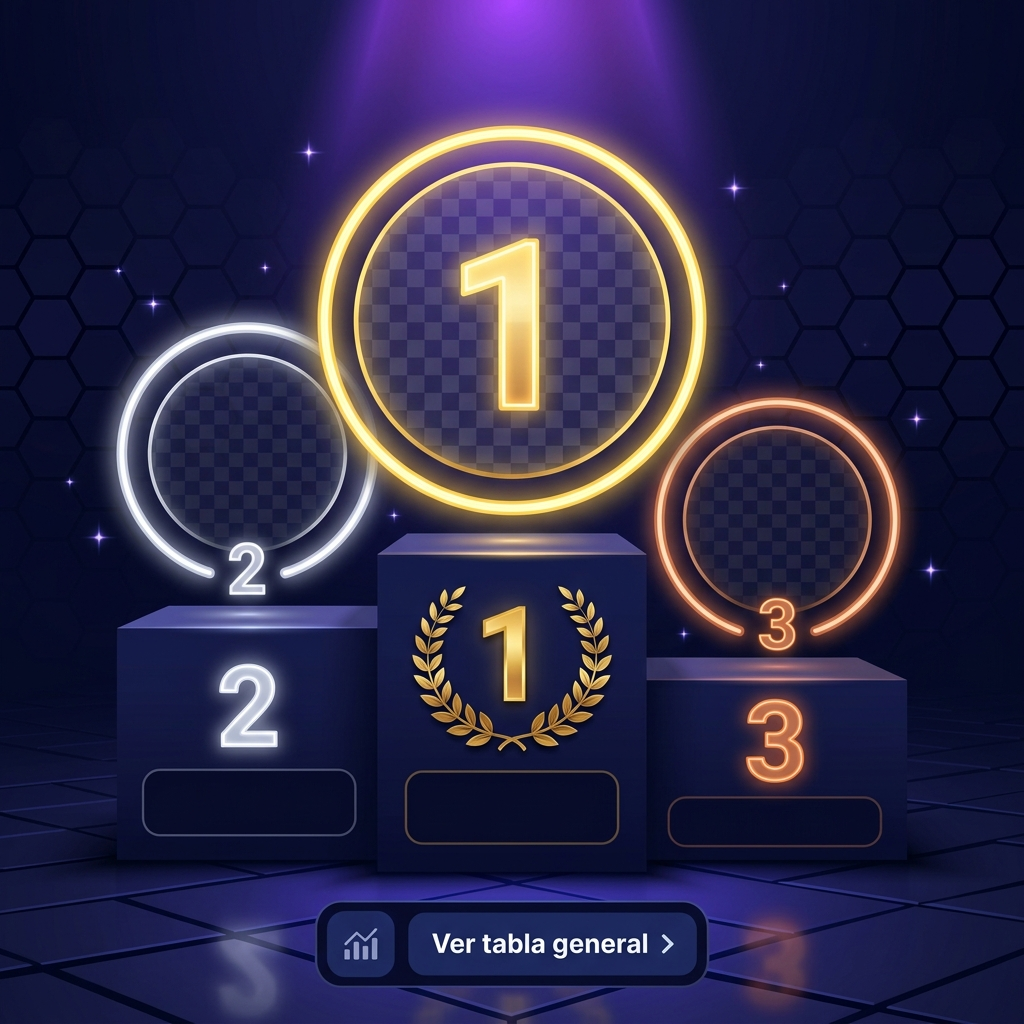
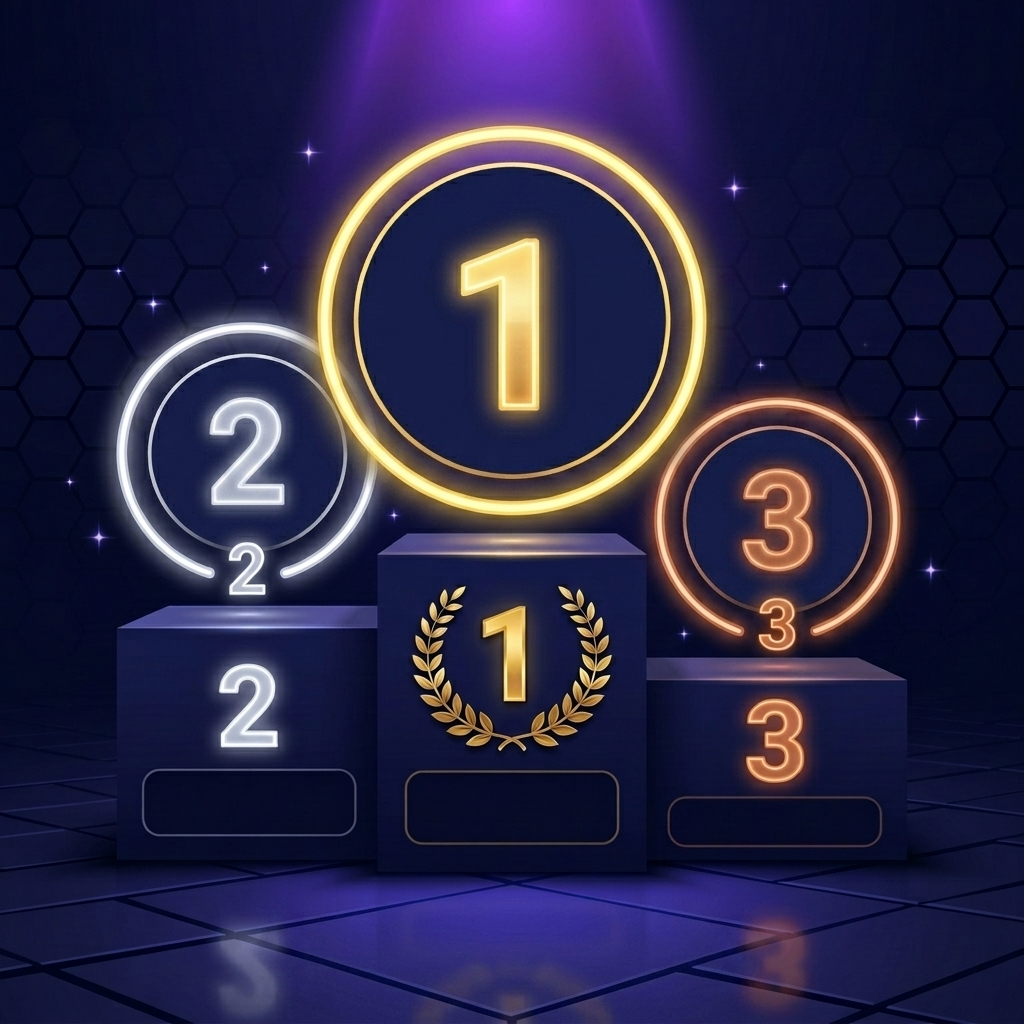
w

diff --git a/juegos/styles.css b/juegos/styles.css
@@ -2336,17 +2336,15 @@ body.is-native-app .sidebar { display: none !important; }
 .rp-bg-wrap {
     position: relative;
     width: 100%;
-    max-width: 580px;
-    margin: 0 auto 20px auto;
-    /* La imagen es 1024x1024 → aspect-ratio 1/1 */
+    max-width: 560px;
+    margin: 0 auto 24px auto;
     aspect-ratio: 1 / 1;
     background-image: url('assets/podio_bg.png');
     background-size: cover;
-    background-position: center top;
+    background-position: center center;
     background-repeat: no-repeat;
     border-radius: 20px;
     overflow: hidden;
-    /* Leve sombra para integrarse con la UI */
     box-shadow: 0 20px 50px rgba(0,0,0,0.6), 0 0 0 1px rgba(255,255,255,0.06);
 }
 
@@ -2362,8 +2360,8 @@ body.is-native-app .sidebar { display: none !important; }
 /* ── AVATAR CÍRCULO 1° LUGAR (dorado, centro-arriba) ── */
 .rp-ov-circle-1 {
     left: 50%;
-    top: 12.5%;
-    width: 33%;
+    top: 10%;
+    width: 35%;
     aspect-ratio: 1/1;
     transform: translateX(-50%);
     border-radius: 50%;
@@ -2372,9 +2370,9 @@ body.is-native-app .sidebar { display: none !important; }
 
 /* ── AVATAR CÍRCULO 2° LUGAR (plateado, izquierda) ── */
 .rp-ov-circle-2 {
-    left: 10%;
-    top: 34.5%;
-    width: 22%;
+    left: 7.5%;
+    top: 32%;
+    width: 23%;
     aspect-ratio: 1/1;
     border-radius: 50%;
     overflow: hidden;
@@ -2382,9 +2380,9 @@ body.is-native-app .sidebar { display: none !important; }
 
 /* ── AVATAR CÍRCULO 3° LUGAR (bronce, derecha) ── */
 .rp-ov-circle-3 {
-    right: 10%;
-    top: 37.5%;
-    width: 21%;
+    right: 7.5%;
+    top: 35%;
+    width: 22%;
     aspect-ratio: 1/1;
     border-radius: 50%;
     overflow: hidden;
@@ -2398,43 +2396,48 @@ body.is-native-app .sidebar { display: none !important; }
     display: flex;
     align-items: center;
     justify-content: center;
-    font-size: 2.8rem;
     overflow: hidden;
-    /* Fondo semitransparente para cuando no hay avatar */
-    background: rgba(10, 5, 25, 0.35);
+    /* Coincide con el interior de los círculos de la imagen */
+    background: #1c2044;
+    position: relative;
 }
-.rp-ov-circle-2 .rp-ov-avatar,
-.rp-ov-circle-3 .rp-ov-avatar { font-size: 1.8rem; }
+/* Viñeta sutil para mezclar bordes del avatar con el anillo */
+.rp-ov-circle-1 .rp-ov-avatar::after,
+.rp-ov-circle-2 .rp-ov-avatar::after,
+.rp-ov-circle-3 .rp-ov-avatar::after {
+    content: '';
+    position: absolute;
+    inset: 0;
+    border-radius: 50%;
+    box-shadow: inset 0 0 25px 12px rgba(15,15,45,0.85);
+    pointer-events: none;
+    z-index: 2;
+}
 
 /* ── CAJAS DE NOMBRE + SCORE ── */
-/* Caja 1° (centro, abajo del pedestal) */
 .rp-ov-info-1 {
     left: 50%;
     transform: translateX(-50%);
     top: 72%;
     width: 33%;
-    gap: 2px;
+    gap: 1px;
 }
-
-/* Caja 2° (izquierda) */
 .rp-ov-info-2 {
-    left: 4.5%;
+    left: 4%;
     top: 76%;
-    width: 33%;
-    gap: 2px;
+    width: 32%;
+    gap: 1px;
 }
-
-/* Caja 3° (derecha) */
 .rp-ov-info-3 {
-    right: 4.5%;
-    top: 79%;
-    width: 33%;
-    gap: 2px;
+    right: 4%;
+    top: 78%;
+    width: 32%;
+    gap: 1px;
 }
 
 /* Nombre en la caja */
 .rp-ov-name {
-    font-size: clamp(0.6rem, 2.5vw, 0.8rem);
+    font-size: clamp(0.6rem, 2.5vw, 0.85rem);
     font-weight: 900;
     color: #e2e8f0;
     text-align: center;
@@ -2442,7 +2445,7 @@ body.is-native-app .sidebar { display: none !important; }
     overflow: hidden;
     text-overflow: ellipsis;
     max-width: 100%;
-    text-shadow: 0 1px 4px rgba(0,0,0,0.9);
+    text-shadow: 0 1px 6px rgba(0,0,0,1);
     line-height: 1.1;
 }
 
@@ -2459,30 +2462,58 @@ body.is-native-app .sidebar { display: none !important; }
     font-size: clamp(0.55rem, 2vw, 0.72rem);
     font-weight: 800;
     color: #e2e8f0;
-    text-shadow: 0 1px 4px rgba(0,0,0,0.9);
+    text-shadow: 0 1px 6px rgba(0,0,0,1);
     line-height: 1.2;
 }
 .rp-ov-pts-gold {
-    font-size: clamp(0.6rem, 2.2vw, 0.8rem);
+    font-size: clamp(0.6rem, 2.2vw, 0.85rem);
     font-weight: 900;
     color: #FFD700;
-    text-shadow: 0 0 10px rgba(255,215,0,0.6), 0 1px 4px rgba(0,0,0,0.9);
+    text-shadow: 0 0 10px rgba(255,215,0,0.6), 0 1px 6px rgba(0,0,0,1);
     line-height: 1.2;
 }
-.rp-ov-pct-gold   { font-size: clamp(0.55rem, 2vw, 0.72rem); font-weight: 800; color: #ffd700; text-shadow: 0 1px 4px rgba(0,0,0,0.9); line-height: 1.2; }
-.rp-ov-pct-silver { font-size: clamp(0.55rem, 2vw, 0.72rem); font-weight: 800; color: #94b8d8; text-shadow: 0 1px 4px rgba(0,0,0,0.9); line-height: 1.2; }
-.rp-ov-pct-bronze { font-size: clamp(0.55rem, 2vw, 0.72rem); font-weight: 800; color: #e8a060; text-shadow: 0 1px 4px rgba(0,0,0,0.9); line-height: 1.2; }
+.rp-ov-pct-gold   { font-size: clamp(0.55rem, 2vw, 0.72rem); font-weight: 800; color: #ffd700; text-shadow: 0 1px 6px rgba(0,0,0,1); line-height: 1.2; }
+.rp-ov-pct-silver { font-size: clamp(0.55rem, 2vw, 0.72rem); font-weight: 800; color: #94b8d8; text-shadow: 0 1px 6px rgba(0,0,0,1); line-height: 1.2; }
+.rp-ov-pct-bronze { font-size: clamp(0.55rem, 2vw, 0.72rem); font-weight: 800; color: #e8a060; text-shadow: 0 1px 6px rgba(0,0,0,1); line-height: 1.2; }
 
-/* Imagen de avatar dentro del círculo overlay */
+/* Avatar images — recorte circular centrado en cara/torso */
 .rp-ov-avatar img,
-.rp-ov-avatar .rp-avatar-media {
-    width: 100%; height: 100%;
-    object-fit: cover; border-radius: 50%;
+.rp-ov-avatar .rp-avatar-media,
+.rp-ov-avatar .avatar-render,
+.rp-ov-avatar .avatar-render-base {
+    width: 100% !important;
+    height: 100% !important;
+    object-fit: cover !important;
+    object-position: center 5% !important;
+    border-radius: 50% !important;
+    background: transparent !important;
+}
+.rp-ov-avatar .avatar-render {
+    position: relative;
+    border-radius: 50% !important;
+    overflow: hidden !important;
+    background: transparent !important;
+}
+
+/* ── Responsive: Móvil ── */
+@media (max-width: 600px) {
+    .rp-bg-wrap {
+        max-width: 100%;
+        border-radius: 16px;
+        margin-bottom: 16px;
+    }
+    .rp-ov-name {
+        font-size: clamp(0.5rem, 3vw, 0.7rem);
+    }
+    .rp-ov-pts, .rp-ov-pts-gold {
+        font-size: clamp(0.45rem, 2.5vw, 0.65rem);
+    }
+    .rp-ov-pct-gold, .rp-ov-pct-silver, .rp-ov-pct-bronze {
+        font-size: clamp(0.4rem, 2.2vw, 0.6rem);
+    }
 }
 
 .game-rank-card.is-me-ranking { border-color: rgba(233,30,99,0.55) !important; background: linear-gradient(90deg, rgba(233,30,99,0.18), rgba(255,255,255,0.06)) !important; box-shadow: 0 0 20px rgba(233,30,99,0.22); }
-    position: relative;
-
 
 
 .games-app-theme #top-estudiantes-list > div,

diff --git a/juegos/index.html b/juegos/index.html
@@ -8,7 +8,7 @@
   <link rel="preconnect" href="https://fonts.googleapis.com">
   <link href="https://fonts.googleapis.com/css2?family=Inter:wght@400;500;600;700;800;900&display=swap" rel="stylesheet">
   <link rel="stylesheet" href="https://cdnjs.cloudflare.com/ajax/libs/font-awesome/6.4.0/css/all.min.css">
-  <link rel="stylesheet" href="styles.css?v=47">
+  <link rel="stylesheet" href="styles.css?v=51">
   
   <!-- PWA Meta Tags -->
   <link rel="manifest" href="manifest.json">
@@ -712,7 +712,7 @@
 <!-- SCRIPTS -->
 <script src="https://cdn.jsdelivr.net/npm/@supabase/supabase-js@2"></script>
 <script src="../device_guard.js?v=3"></script>
-<script src="app.js?v=43"></script>
+<script src="app.js?v=44"></script>
 
 <!-- PWA Service Worker Registration -->
 <!-- AVATAR MODAL -->
